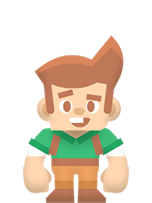
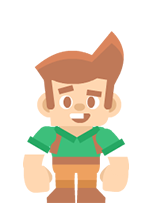
foi adicionado tiros
agora o personagem atira, até  o momento sem bugs

Changed region(s): [[0.1316, 0.1478, 0.8684, 1.0]]

diff --git a/main.py b/main.py
@@ -1,5 +1,6 @@
 import pgzrun
-import pygame
+from pygame import Rect
+import time
 # Definir tamanho da tela
 WIDTH = 1200
 HEIGHT = 900
@@ -11,27 +12,52 @@ speed = 0
 indice_frame = 0
 animation = "idle"
 
+#medir fps
+frame_count = 0
+last_time = time.time()
+fps = 0
+
+#delay animações
+frame_counter = 0
+frame_delay = 8
 
 # Criar um Actor para a nuvem
-cloud1 = Actor("cloud1", (200, 100))  # Posição inicial (X=200, Y=100)
-cloud2 = Actor("cloud2", (650, 150))  # Posição inicial (X=200, Y=100)
+cloud1 = Actor("cloud1", (200, 100))
+cloud2 = Actor("cloud2", (650, 150))  
 #cloud3 = Actor("cloud3", )
 clouds = [cloud1, cloud2]
 
 #criação chão
 floor_height = HEIGHT - 20
-grassy_ground = Actor("grassy_ground", (0, floor_height))
 grassy_grounds = [Actor("grassy_ground", (x, floor_height)) for x in range(0, WIDTH + 64 + 64, 64)]  
 
 
 #criação do personagem
-character = Actor("character_idle1", (100, HEIGHT - 147))
+character_height = HEIGHT - 147
+animation_now = "character_idle0"
+character = Actor(animation_now, (300, floor_height - 128))
+speed_y = 0
+gravity = 0.8
+jump_strength = -18
+on_ground = True
+
+
 #animação do personagem
-walking_frames = [f"character_walk{n}" for n in range(7)]
+walking_frames = [f"character_walk{n}" for n in range(8)]
+character_idle = [f"character_idle{n}" for n in range(3)]
+character_gun = [f"character_gun{n}" for n in range(3)]
+shooting = False
+shot = 0
+bullets = []
+indice_idle_frame = 0
+indice_walking_frame = 0
+indice_gun_frame = 0
+character_jump = "character_jump"
 
 def draw():
     screen.clear()
     screen.fill((135,206,250))  # Cor de fundo azul(ceu)
+    screen.draw.text(f"FPS: {int(fps)}", (10, 10), fontsize = 30, color="white")
     #menu
     if not running:
         #nuvems do menu
@@ -43,31 +69,109 @@ def draw():
         #botão começar
         screen.draw.filled_rect(button_start, "blue")
         screen.draw.text("iniciar", (320, 240), fontsize=60, color="white")
+    global character, animation_now
     if running:
         for floor in grassy_grounds:
             floor.draw()  # Desenha cada pedaço do chão
+        character.image = animation_now
+        print(character.y)
         character.draw()
+        for bullet in bullets:
+            bullet.draw()
 
 
 def update():
-    global indice_frame, speed, animation
-    #verifica se ta andando
+    global last_time, frame_count, fps, grassy_grounds
+    frame_count += 1
+    current_time = time.time()
+    elapsed_time = current_time - last_time
+
+    #atualiza o fps a cada segundo
+    if elapsed_time >= 1:
+        fps = frame_count / elapsed_time
+        frame_count = 0
+        last_time = current_time
+    global indice_frame, speed, animation, frame_counter, character_height, floor_height, character_gun, indice_gun_frame
+    global speed_y, on_ground, jump_strength, shooting, shot
+
+
+    #verifica se ta andando-----------------------------
     if keyboard.right or keyboard.D:
         speed = 3
         animation = "walking"
-        #character.x += speed
-    else:
+    elif on_ground:
         speed = 0
         animation = "idle"
-    #altera os frames da animação3
+    #verifica o pulo
+    #elif character_height >= floor_height - 128:
+    if (keyboard.up or keyboard.W) and on_ground:
+        animation = "jump"
+        speed_y = jump_strength
+        on_ground = False
+    if keyboard.lctrl and shot == 0:
+        shooting = True
+
+    
+    #controle de frames animação
+    frame_counter += 1
+    
+    #animações
+    global indice_idle_frame, indice_walking_frame, animation_now, character
     if animation == "walking":
-        character.image = walking_frames[indice_frame % len(walking_frames)]
-    #elif animation == "idle":
-     #   character.image = 
-    indice_frame = (indice_frame + 1) % len(walking_frames)
+        if frame_counter >= 8:
+            frame_counter = 0
+            if on_ground:
+                animation_now = walking_frames[indice_walking_frame % len(walking_frames)]
+                print(animation_now)
+                indice_walking_frame = (indice_walking_frame + 1) % len(walking_frames)
+    
+
+    elif animation == "jump":
+            animation_now = character_jump
+            #print(character.y)
+
+    #gravidade
+    speed_y += gravity
+    character.y += speed_y
+    for floor in grassy_grounds:
+        if character.colliderect(floor):
+            character.y = floor.top - character.height / 2
+            speed_y = 0
+            on_ground = True
+            break  # Já colidiu com um, não precisa verificar os outros
 
 
-    global grassy_grounds
+    if animation == "idle":
+        speed = 0
+        if frame_counter >= 20:
+            frame_counter = 0
+            animation_now = character_idle[indice_idle_frame % len(character_idle)]
+            print(animation_now)
+            if indice_idle_frame <= len(character_idle):
+                indice_idle_frame = indice_idle_frame + 1
+            elif indice_idle_frame > len(character_idle):
+                indice_idle_frame = 0
+    for bullet in bullets[:]:
+        bullet.x += 10
+        if bullet.x > WIDTH + 50:
+            bullets.remove(bullet)
+    if shooting and shot == 0:
+        if frame_counter >= 1:
+            frame_counter = 0
+            animation_now = character_gun[indice_gun_frame % len(character_gun)]
+            print(animation_now)
+            indice_gun_frame = (indice_gun_frame + 1) % len(character_gun)
+            if animation_now == character_gun[2]:
+                shooting = False
+                shot = 60
+                # Cria o tiro baseado na posição atual do personagem
+                bullet = Actor("bullet", (character.x + 80, character.y + 50))
+                bullets.append(bullet)
+
+    if shot > 0:
+        shot -= 1
+
+
     #move o chão para a esquerda
     for floor in grassy_grounds:
         floor.x -= speed

diff --git a/teste.py b/teste.py
@@ -1,28 +1,143 @@
 import pgzrun
 import pygame
+import time
+
 # Definir tamanho da tela
-WIDTH = 800
-HEIGHT = 600
+WIDTH = 1200
+HEIGHT = 900
 
+# Variável de controle
+running = False
+button_start = Rect((WIDTH // 2 - 150), 220, 300, 80)
+speed = 0
+indice_frame = 0
+animation = "idle"
 
+# Medir FPS
+frame_count = 0
+last_time = time.time()
+fps = 0
 
+# Delay animações
+frame_counter = 0
+frame_delay = 8
 
-cloud1 = Actor("cloud1", (200, 100))  # Posição inicial (X=200, Y=100)
-cloud2 = Actor("cloud2", (650, 100))  # Posição inicial (X=200, Y=100)
+# Criar nuvens
+cloud1 = Actor("cloud1", (200, 100))
+cloud2 = Actor("cloud2", (650, 150))
 clouds = [cloud1, cloud2]
+
+# Criar chão
+floor_height = HEIGHT - 20
+grassy_grounds = [Actor("grassy_ground", (x, floor_height)) for x in range(0, WIDTH + 64 + 64, 64)]  
+
+# Criar personagem
+character_height = HEIGHT - 147
+animation_now = "character_idle0"
+character = Actor(animation_now, (300, character_height))
+
+# Variáveis do pulo e gravidade
+speed_y = 0
+gravity = 0.5
+jump_strength = -10
+on_ground = True
+
+# Animações do personagem
+walking_frames = [f"character_walk{n}" for n in range(8)]
+character_idle = [f"character_idle{n}" for n in range(3)]
+indice_idle_frame = 0
+indice_walking_frame = 0
+character_jump = "character_jump"
+
 def draw():
     screen.clear()
-    screen.fill((135,206,250))  # Cor de fundo azul(ceu)
+    screen.fill((135, 206, 250))  # Cor de fundo azul (céu)
+    screen.draw.text(f"FPS: {int(fps)}", (10, 10), fontsize=30, color="white")
 
-    for cloud in clouds:
-        cloud.draw()
+    # Menu inicial
+    if not running:
+        for cloud in clouds:
+            cloud.draw()
+        screen.draw.filled_rect(Rect((WIDTH // 2 - 150), 45, 300, 80), "blue")
+        screen.draw.text("Meu Jogo", (270, 60), fontsize=80, color="white")
+        screen.draw.filled_rect(button_start, "blue")
+        screen.draw.text("iniciar", (320, 240), fontsize=60, color="white")
+    else:
+        for floor in grassy_grounds:
+            floor.draw()  
+        character.y = character_height  # Atualiza a posição do personagem
+        character.draw()
 
 
+def update():
+    global last_time, frame_count, fps
+    frame_count += 1
+    current_time = time.time()
+    elapsed_time = current_time - last_time
+
+    # Atualiza o FPS a cada segundo
+    if elapsed_time >= 1:
+        fps = frame_count / elapsed_time
+        frame_count = 0
+        last_time = current_time
+
+    global indice_frame, speed, animation, frame_counter, character_height
+    global speed_y, on_ground, jump_strength
+
+    # Movimento lateral
+    if keyboard.right or keyboard.D:
+        speed = 3
+        animation = "walking"
+
+    # Pulo
+    if (keyboard.up or keyboard.W) and on_ground:
+        animation = "jump"
+        speed_y = jump_strength
+        on_ground = False
+
+    # Gravidade
+    speed_y += gravity  # Aplica a gravidade
+    character_height += speed_y  # Atualiza a altura do personagem
+
+    # Verifica colisão com o chão
+    if character_height >= HEIGHT - 147:
+        character_height = HEIGHT - 147
+        speed_y = 0
+        on_ground = True
+
+    # Controle de frames da animação
+    frame_counter += 1
+    global indice_idle_frame, indice_walking_frame, animation_now
+
+    if animation == "walking":
+        if frame_counter >= 8:
+            frame_counter = 0
+            animation_now = walking_frames[indice_walking_frame % len(walking_frames)]
+            indice_walking_frame = (indice_walking_frame + 1) % len(walking_frames)
+
+    elif animation == "jump":
+        animation_now = character_jump
+
+    if animation == "idle":
+        speed = 0
+        if frame_counter >= 20:
+            frame_counter = 0
+            animation_now = character_idle[indice_idle_frame % len(character_idle)]
+            indice_idle_frame = (indice_idle_frame + 1) % len(character_idle)
+
+    # Movimentação do chão
+    for floor in grassy_grounds:
+        floor.x -= speed
+    if grassy_grounds[0].x < -64:
+        grassy_grounds.pop(0)
+        new_grassy_ground = Actor("grassy_ground", (grassy_grounds[-1].x + 64, floor_height))
+        grassy_grounds.append(new_grassy_ground)
 
 
-
-
-
+def on_mouse_down(pos):
+    global running
+    if not running and button_start.collidepoint(pos):
+        running = True
 
 
 # Iniciar o jogo

diff --git a/testepequenos.py b/testepequenos.py
@@ -1,0 +1,2 @@
+for n in range(2):
+    print(n)
